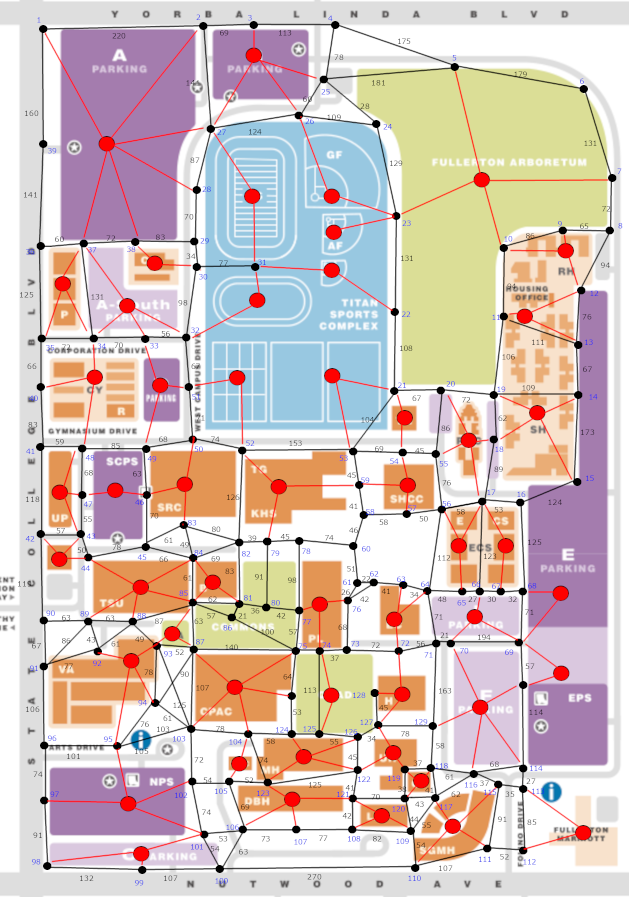
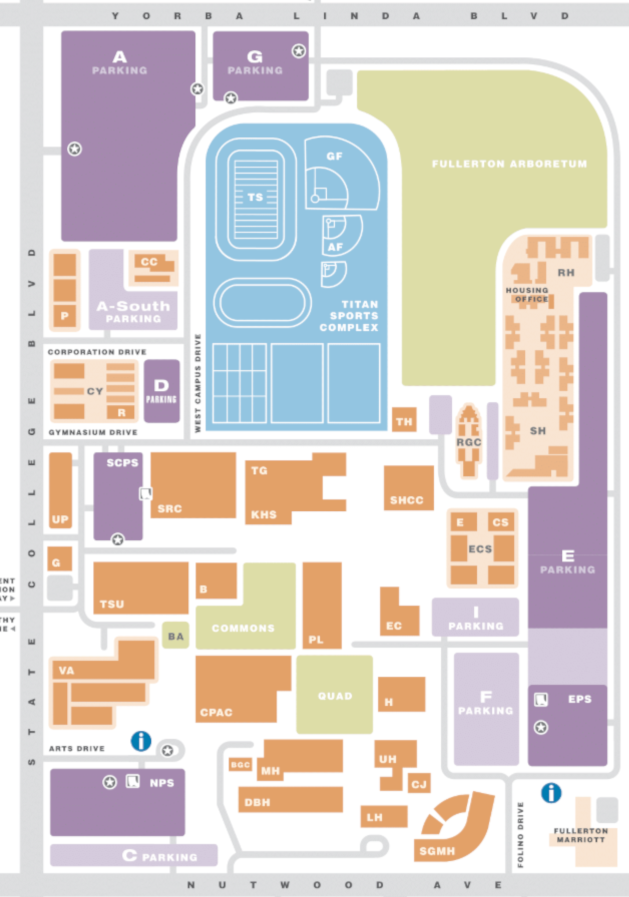
backround image was changed and made opaque some edge line widths were changed

diff --git a/generate_traffic.py b/generate_traffic.py
@@ -46,7 +46,7 @@ def generate_traffic(ax, canvas):
             # Draw black edges with slightly larger width as outline
             nx.draw_networkx_edges(G, pos, ax=ax, edgelist=[(u, v)], edge_color='black', width=3.5)
             # Draw colored edges with desired width
-            nx.draw_networkx_edges(G, pos, ax=ax, edgelist=[(u, v)], edge_color=G[u][v]['color'], width=2.5)
+            nx.draw_networkx_edges(G, pos, ax=ax, edgelist=[(u, v)], edge_color=G[u][v]['color'], width=3.3)
 
     # Load and overlay the campus map image
     image = mpimg.imread('campus map node graph.png')

diff --git a/main.py b/main.py
@@ -98,7 +98,8 @@ class CampusNavigationApp:
         image_width = 629
         image_height = 897
 
-        self.ax.imshow(image, extent=[0, image_width, 0, image_height], alpha=0.5)
+        # alpha here controls transparency of backround image (0 - 1)
+        self.ax.imshow(image, extent=[0, image_width, 0, image_height], alpha=1)
         self.ax.axis('off')
 
         self.canvas = FigureCanvasTkAgg(self.fig, master=self.canvas_frame)
